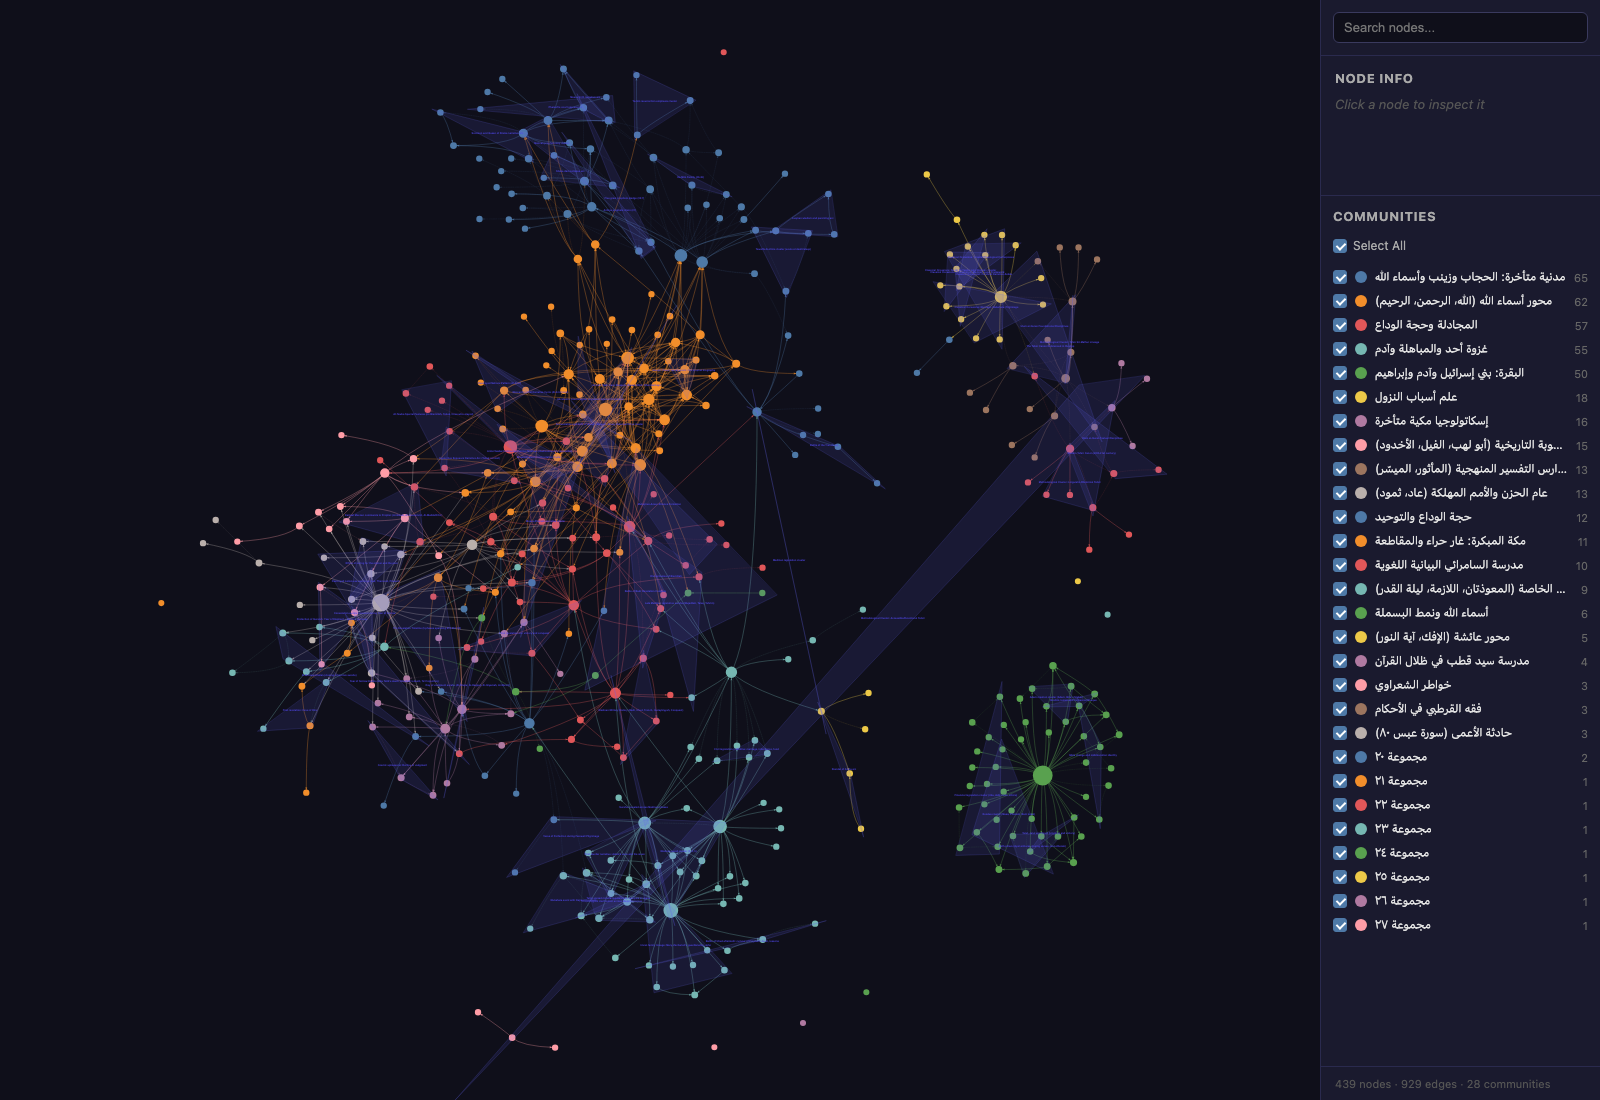
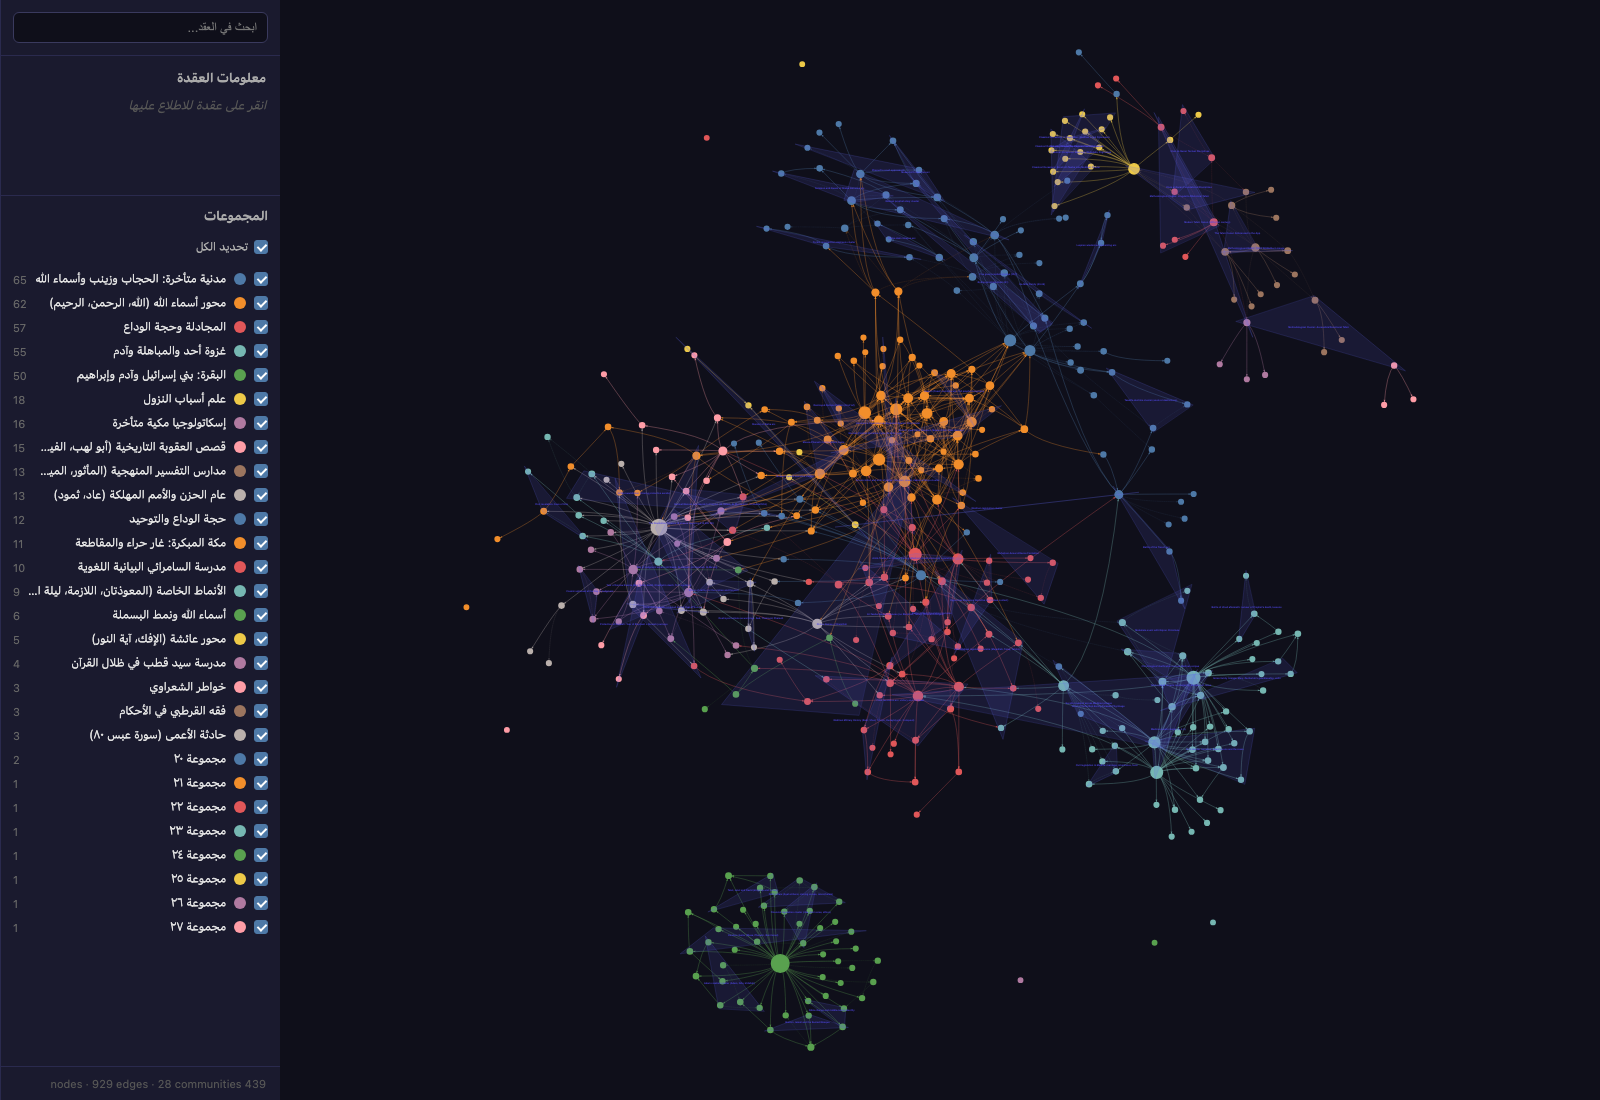
Complete Arabic localization of the Knowledge Graph
Two problems fixed:

1. Node labels: was 264 of 439 (60%), now 439 of 439 (100%) translated.
   Added ~175 new entries to the EXPLICIT translation map covering all
   the agent-generated concept nodes - narratives (Adam-Iblis fall,
   Moses-Pharaoh extended, Solomon and Bilqis, etc.), characters
   (Bilqis, Talut, Jalut, Nimrod, Aad, Thamud, etc.), every variant of
   Asbab labels, tafsir works (Tafsir al-Quran al-Azim,
   Jami al-Bayan an Ta'wil ay al-Quran, In the Shade of the Quran,
   Khawatir al-Sha'rawi, Lamasat Bayania, etc.), tafsir approaches
   (bil-Mathur, Bayani, Fiqhi, Khawatiri, Adabi-Haraki), all 6 sciences,
   all phase variants, all event variants.

2. Graphify HTML viewer chrome (the right panel UI): was English.
   Added a new localize_html_ui() post-processing step in
   scripts/build_arabic_graph.py that does string replacement on the
   generated HTML:
   - "Node Info" -> "معلومات العقدة"
   - "Click a node to inspect it" -> "انقر على عقدة للاطلاع عليها"
   - "Communities" -> "المجموعات"
   - "Select All" -> "تحديد الكل"
   - "Community: ..." -> "المجموعة: ..."
   - "Source: ..." -> "المصدر: ..."
   - "Degree: ..." -> "الدرجة: ..."
   - "Neighbors (N)" -> "الجوار (N)"
   - "EXTRACTED" -> "صريح", "INFERRED" -> "مستنبط", "AMBIGUOUS" -> "مبهم"
   - Search box "Search nodes..." -> "ابحث في العقد..." + dir="rtl"
   - <html> tag -> <html lang="ar" dir="rtl"> for full RTL layout

Asar re-patched with the updated Arabic graph (3.8 MB total).

diff --git a/scripts/build_arabic_graph.py b/scripts/build_arabic_graph.py
@@ -193,6 +193,194 @@ EXPLICIT = {
     "Theme: Community and Society": "المجتمع",
     "Theme: Community and Defence": "المجتمع والدفاع",
     "Theme: Patience and Endurance": "الصبر",
+    # Bare theme names (without "Theme:" prefix)
+    "Faith and Monotheism": "العقيدة والتوحيد",
+    "Legislation": "التشريع",
+    "Stories of the Prophets": "قصص الأنبياء",
+    "Day of Judgment": "يوم القيامة",
+    "Warning": "التحذير",
+    "Ethics and Character": "الأخلاق",
+    "Worship and Devotion": "العبادة",
+    "Nature and Signs": "الطبيعة والآيات",
+    "Community and Society": "المجتمع",
+    "Community and Defence": "المجتمع والدفاع",
+    "Patience and Endurance": "الصبر",
+    "Tawhid (Monotheism)": "التوحيد",
+    "Tawhid (oneness of God)": "التوحيد",
+    "Hypocrisy (Nifaq)": "النفاق",
+    "Repentance (Tawba)": "التوبة",
+    "Jihad / Warfare Ethics": "أخلاق الجهاد والقتال",
+    # Variant entity labels
+    "Allah (God)": "الله",
+    "Muhammad (the Prophet)": "محمد ﷺ",
+    "Aisha (wife of Prophet)": "عائشة (زوج النبي)",
+    "Hamaan (Pharaoh's minister)": "هامان (وزير فرعون)",
+    "Abu Lahab (uncle of the Prophet)": "أبو لهب (عم النبي)",
+    "Bilqis (Queen of Sheba)": "بلقيس (ملكة سبأ)",
+    "Bani Israel (Children of Israel)": "بنو إسرائيل",
+    "Jalut (Goliath)": "جالوت",
+    "Talut (Saul)": "طالوت",
+    "Nimrod (king who disputed with Ibrahim)": "النمرود",
+    "Elias (Ilyas)": "إلياس",
+    "Shuaib": "شعيب",
+    "Shu'ayb": "شعيب",
+    "Luqman the Wise": "لقمان الحكيم",
+    "Zaynab bint Jahsh": "زينب بنت جحش",
+    "Quraish tribe": "قبيلة قريش",
+    "Blind Man incident (Abdullah ibn Umm Maktum)": "حادثة الأعمى (عبد الله بن أم مكتوم)",
+    "Aad of Iram (the pillared)": "عاد إرم ذات العماد",
+    "People of Thamood": "ثمود",
+    "People of the Elephant (Year of the Elephant)": "أصحاب الفيل",
+    "People of the Trench (Ashab al-Ukhdud)": "أصحاب الأخدود",
+    "The People of the Heights (Al-A'raf)": "أصحاب الأعراف",
+    "The Hypocrites (Munafiqun)": "المنافقون",
+    "Saba (Sheba)": "سبأ",
+    "Sacred Valley of Tuwa": "وادي طوى المقدس",
+    # Phases (variants)
+    "Late Meccan phase (619-622 CE)": "المرحلة المكية المتأخرة (619-622م)",
+    "Late Medinan Phase (628-632 CE, Year 6-10 AH)": "المرحلة المدنية المتأخرة (628-632م، 6-10هـ)",
+    "Late Medinan phase (628-632 CE)": "المرحلة المدنية المتأخرة (628-632م)",
+    "Early Medinan Phase (622-628 CE, Year 1-6 AH)": "المرحلة المدنية المبكرة (622-628م، 1-6هـ)",
+    "Phase: Late Meccan": "المرحلة المكية المتأخرة",
+    # Events (variants)
+    "Cave of Hira (absolute temporal origin of the Quran)": "غار حراء (الأصل الزماني للقرآن)",
+    "First revelation: Cave of Hira": "الوحي الأول: غار حراء",
+    "Public Preaching Begins (613 CE)": "بداية الدعوة الجهرية (613م)",
+    "Migration to Abyssinia (615 CE)": "الهجرة إلى الحبشة (615م)",
+    "First Migration to Abyssinia (615 CE)": "الهجرة الأولى إلى الحبشة (615م)",
+    "Boycott of Banu Hashim (616-619 CE)": "مقاطعة بني هاشم (616-619م)",
+    "Isra and Mi'raj (Night Journey)": "الإسراء والمعراج",
+    "Isra and Mi'raj: Night Journey and Ascension (621 CE)": "الإسراء والمعراج (621م)",
+    "Hijra (Emigration to Medina, 622 CE)": "الهجرة إلى المدينة (622م)",
+    "Hijra: Migration to Medina (622 CE / Year 1 AH)": "الهجرة إلى المدينة (622م / 1هـ)",
+    "Hijra and the Muhajirun/Ansar Alliance": "الهجرة وعهد المهاجرين والأنصار",
+    "Tabuk Expedition (Rajab 9 AH / October 630 CE)": "غزوة تبوك (رجب 9هـ / أكتوبر 630م)",
+    "The Tabuk Expedition Narrative (Year 9 AH)": "سيرة غزوة تبوك (9هـ)",
+    "Farewell Pilgrimage (closing event of prophetic mission)": "حجة الوداع (ختام البعثة النبوية)",
+    "Farewell Pilgrimage / Hajjat al-Wada (632 CE / 10 AH)": "حجة الوداع (632م / 10هـ)",
+    "Event: Cave of Hira First Revelation": "حدث: غار حراء والوحي الأول",
+    "Event: Conquest of Mecca": "حدث: فتح مكة",
+    "Event: Year of Sorrow": "حدث: عام الحزن",
+    "Year 1 of the Hijri Calendar (temporal pivot)": "السنة الأولى الهجرية (نقطة تحوّل زمنية)",
+    # Asbab variants
+    "Asbab al-Nuzul (Al-Wahidi)": "أسباب النزول (الواحدي)",
+    "Asbab al-Nuzul (methodology)": "علم أسباب النزول (المنهج)",
+    "Asbab: Abraham's Call to Pilgrimage (22:27)": "أسباب: دعوة إبراهيم للحج (22:27)",
+    "Asbab: Ayat al-Kursi (2:255)": "أسباب: آية الكرسي (2:255)",
+    "Asbab: Ayat an-Nur (24:35)": "أسباب: آية النور (24:35)",
+    "Asbab: Change of Qibla (2:142-150)": "أسباب: تحويل القبلة (2:142-150)",
+    "Asbab: Declaration of Immunity (9:1-29)": "أسباب: البراءة (9:1-29)",
+    "Asbab: First Three Converts (9:100,117)": "أسباب: السابقون الأولون (9:100, 117)",
+    "Asbab: Hijab Verses (33:53, 33:59, 24:31)": "أسباب: آيات الحجاب (33:53، 33:59، 24:31)",
+    "Asbab: Inheritance Verses (4:11, 4:12, 4:176)": "أسباب: آيات المواريث (4:11، 4:12، 4:176)",
+    "Asbab: Marriage to Zaynab": "أسباب: زواج زينب",
+    "Asbab: Marriage to Zaynab bint Jahsh (33:37-40)": "أسباب: زواج زينب بنت جحش (33:37-40)",
+    "Asbab: Orphans and Widows after Uhud (4:1-3, 4:127)": "أسباب: اليتامى والأرامل بعد أحد (4:1-3، 4:127)",
+    "Asbab: Slander of Aisha (24:11-20)": "أسباب: حادثة الإفك (24:11-20)",
+    "Asbab: The Pleading Woman": "أسباب: المجادِلة",
+    "Asbab: The Pleading Woman (58:1-4)": "أسباب: المجادِلة (58:1-4)",
+    "Asbab: The Slander of Aisha (Ifk)": "أسباب: حادثة الإفك",
+    "Asbab: Three Who Stayed Behind from Tabuk (9:117-118)": "أسباب: الثلاثة المخلَّفون عن تبوك (9:117-118)",
+    "Asbab: Verse of Light": "أسباب: آية النور",
+    "Asbab: Verse of Mubahala (3:61)": "أسباب: آية المباهلة (3:61)",
+    "Asbab: Verse of Perfection of Religion (5:3)": "أسباب: آية إكمال الدين (5:3)",
+    "Asbab: Verses of Hijab": "أسباب: آيات الحجاب",
+    "Asbab: Verses on marriage to Zaynab": "أسباب: زواج زينب",
+    # Sciences variants
+    "Asbab al-Nuzul: Occasions of Revelation": "علم أسباب النزول",
+    "Nasikh wal-Mansukh": "الناسخ والمنسوخ",
+    "Muhkam and Mutashabih": "المحكم والمتشابه",
+    "Makki and Madani Classification": "المكي والمدني",
+    "The Ten Qira'at (Canonical Readings)": "القراءات العشر",
+    "I'jaz al-Quran (Inimitability)": "إعجاز القرآن",
+    "Israiliyyat (Jewish/Christian narratives in tafsir)": "الإسرائيليات",
+    # Tafsir approaches and works
+    "Tafsir Adabi-Haraki (literary-activist)": "التفسير الأدبي الحركي",
+    "Tafsir Bayani (rhetorical and linguistic precision)": "التفسير البياني",
+    "Tafsir Fiqhi (jurisprudential tafsir)": "التفسير الفقهي",
+    "Tafsir Khawatiri (devotional reflections)": "تفسير الخواطر",
+    "Tafsir Lughawi-Balaghi (linguistic-rhetorical analysis)": "التفسير اللغوي البلاغي",
+    "Tafsir Muyassar (accessible tafsir)": "التفسير الميسّر",
+    "Tafsir bil-Mathur (interpretation through transmitted narration)": "التفسير بالمأثور",
+    "Tafsir al-Quran al-Azim": "تفسير القرآن العظيم (ابن كثير)",
+    "Al-Jami li-Ahkam al-Quran": "الجامع لأحكام القرآن (القرطبي)",
+    "Al-Tahrir wa al-Tanwir": "التحرير والتنوير (ابن عاشور)",
+    "Fi Zilal al-Quran (In the Shade of the Quran)": "في ظلال القرآن (سيد قطب)",
+    "Khawatir al-Sha'rawi hawl al-Quran al-Karim": "خواطر الشعراوي حول القرآن الكريم",
+    "Jami al-Bayan an Ta'wil ay al-Quran": "جامع البيان عن تأويل آي القرآن (الطبري)",
+    "Lamasat Bayania (Linguistic Touches)": "لمسات بيانية (السامرائي)",
+    "Taysir al-Karim al-Rahman": "تيسير الكريم الرحمن (السعدي)",
+    "Maqasid al-Shari'ah": "مقاصد الشريعة",
+    "Milestones (Ma'alim fi al-Tariq)": "معالم في الطريق (سيد قطب)",
+    "Tarikh al-Rusul wal-Muluk": "تاريخ الرسل والملوك (الطبري)",
+    "Lubab al-Nuqul fi Asbab al-Nuzul": "لباب النقول في أسباب النزول (السيوطي)",
+    "Imam Suyuti": "الإمام السيوطي",
+    # Special patterns variants
+    "Special Feature: Absence of Bismillah in Surah 9 (At-Tawba)": "خاصية: غياب البسملة في سورة التوبة (9)",
+    "Special: Ar-Rahman 31x refrain": "خاصية: لازمة الرحمن (31 مرة)",
+    "Special: Iron Miracle (Al-Hadid)": "خاصية: معجزة الحديد (سورة 57)",
+    "The People of the Cave: 309 Lunar = 300 Solar Years": "أصحاب الكهف: 309 سنوات قمرية = 300 شمسية",
+    "Al-Mu'awwidhatan (the two protective surahs)": "المعوذتان",
+    "Night of Decree (Laylat al-Qadr)": "ليلة القدر",
+    "Divine Names of Bismillah": "أسماء الله في البسملة",
+    "Quran's Length Arrangement: Longest to Shortest": "ترتيب القرآن: من الأطول إلى الأقصر",
+    # Narratives and concepts
+    "Abraham's Debate with the Idolaters (Stars, Moon, Sun)": "محاجة إبراهيم لقومه (النجم والقمر والشمس)",
+    "Adam, Iblis and the Fall": "آدم وإبليس والهبوط",
+    "Annunciation and Birth of Jesus (Isa) to Mary": "بشارة وميلاد عيسى لمريم",
+    "Annunciation and Birth of John (Yahya) to Zechariah": "بشارة وميلاد يحيى لزكريا",
+    "Ayat al-Kursi 2:255 (the Throne verse)": "آية الكرسي (2:255)",
+    "Birth of Moses and Pharaoh's Persecution": "ولادة موسى واضطهاد فرعون",
+    "Byzantine-Persian Prophecy": "نبوءة الروم وفارس",
+    "Chain of prophets revelation (Noah to Muhammad)": "سلسلة الأنبياء (من نوح إلى محمد ﷺ)",
+    "Change of qibla verses 2:142-150": "آيات تحويل القبلة (2:142-150)",
+    "Children of Israel refuse to enter Holy Land; 40-year wandering": "رفض بني إسرائيل دخول الأرض المقدسة (التيه)",
+    "Clarification of Jesus' nature (not God, not crucified)": "بيان طبيعة عيسى (ليس إلهاً ولم يُصلب)",
+    "Closing verses 2:285-286 (the two final verses)": "خواتيم البقرة (2:285-286)",
+    "Declaration of Immunity / Bara'a (9:1-29)": "البراءة (9:1-29)",
+    "Dietary / food laws (lawful and prohibited)": "أحكام الأطعمة (الحلال والحرام)",
+    "Disciples (Hawariyun) of Jesus declare allegiance": "الحواريون أنصار عيسى",
+    "Election of the Family of Imran": "اصطفاء آل عمران",
+    "Exposure of the Hypocrites (Tawba)": "فضح المنافقين (سورة التوبة)",
+    "Hud and the People of 'Ad": "هود وقومه عاد",
+    "Hudud punishments (theft and corruption on earth)": "الحدود (السرقة والفساد في الأرض)",
+    "Ibrahim covenant verse 2:124 (Imam for mankind)": "آية عهد إبراهيم (2:124): إمام للناس",
+    "Inheritance laws (fixed shares)": "أحكام المواريث (الفرائض)",
+    "Jesus questioned on Day of Judgement about deification": "سؤال عيسى يوم القيامة عن ادعاء الألوهية",
+    "Khilafah verse 2:30 (succession on earth)": "آية الخلافة (2:30)",
+    "Longest verse 2:282 (debt and contract verse)": "أطول آية: آية الدَّين (2:282)",
+    "Lot and the People of Sodom": "لوط وقومه",
+    "Luqman's Counsel to His Son": "وصية لقمان لابنه",
+    "Marriage and prohibited unions laws": "أحكام النكاح والمحرَّمات",
+    "Middle nation verse 2:143": "آية الأمة الوسط (2:143)",
+    "Moses-Pharaoh Extended Narrative (signs, plagues, exodus)": "قصة موسى وفرعون (الآيات والعذاب والخروج)",
+    "Muhammad as messenger; mortality after Uhud rumour": "محمد رسول بعد إشاعة موته يوم أحد (3:144)",
+    "Noah and the Flood": "نوح والطوفان",
+    "Orphan rights and trustee duties": "حقوق اليتامى وواجبات الأوصياء",
+    "Ramadan verse 2:185 (revelation of the Quran)": "آية رمضان (2:185)",
+    "Rights and protections of women": "حقوق المرأة وحمايتها",
+    "Ritual ablution (wudu) and tayammum prescription": "أحكام الوضوء والتيمم",
+    "Scriptures of Abraham and Moses": "صحف إبراهيم وموسى",
+    "Sheba's Dam Collapse Punishment": "انهيار سد مأرب (عذاب سبأ)",
+    "Shu'ayb and the People of Madyan": "شعيب وأهل مدين",
+    "Solomon and the Queen of Sheba": "سليمان وملكة سبأ",
+    "Sons of Adam (Cain and Abel) story; first murder; raven": "ابنا آدم (قابيل وهابيل): أول قتل والغراب",
+    "Table spread miracle (Ma'ida) requested by disciples of Jesus": "معجزة المائدة (طلب الحواريين)",
+    "Tawaffa: Souls Taken at Death": "التوفّي: قبض الأرواح",
+    "The Three Who Stayed Behind (9:117-118)": "الثلاثة الذين خُلِّفوا (9:117-118)",
+    "The Three Who Stayed Behind (Ka'b ibn Malik et al.)": "الثلاثة الذين خُلِّفوا (كعب بن مالك وصاحباه)",
+    "Verse of Mubahala (mutual cursing) with Christians of Najran": "آية المباهلة مع نصارى نجران",
+    "Verse of Perfection of Religion (Farewell Pilgrimage)": "آية إكمال الدين (حجة الوداع)",
+    "Ya-Sin Resurrection Emphasis": "تركيز سورة يس على البعث",
+    "Narrative arc: Adam's creation and the angels' prostration": "قوس سردي: خلق آدم وسجود الملائكة",
+    "Narrative arc: Bani Israel (covenant, exodus, golden calf, repentance)": "قوس سردي: بنو إسرائيل (الميثاق، الخروج، العجل، التوبة)",
+    "Narrative arc: Ibrahim disputing with Nimrod over the Lord": "قوس سردي: محاجة إبراهيم النمرود",
+    "Narrative arc: Ibrahim, Ismail and the building of the Kaaba": "قوس سردي: إبراهيم وإسماعيل وبناء الكعبة",
+    "Narrative arc: Prohibition of riba (usury)": "قوس سردي: تحريم الربا",
+    "Narrative arc: Talut and Jalut (Saul, David and Goliath)": "قوس سردي: طالوت وجالوت وداود",
+    "Narrative arc: The Cow (sacrifice commanded to Bani Israel)": "قوس سردي: ذبح البقرة (الأمر لبني إسرائيل)",
+    "Narrative arc: The Debt verse (longest verse, lending and witnesses)": "قوس سردي: آية الدَّين (أطول آية)",
+    "Narrative arc: The traveller by the ruined town (death and resurrection)": "قوس سردي: المار على القرية الخاوية (الموت والبعث)",
 }
 
 # ──────────────────────────────────────────────────────────
@@ -318,7 +506,60 @@ def main():
     output_path = str(GRAPH_DIR / "quran_graph_ar.html")
     to_html(G, communities, output_path, community_labels=community_labels)
     print(f"Wrote Arabic graph: {output_path}")
+
+    # Post-process: localize the graphify viewer UI chrome to Arabic
+    localize_html_ui(output_path)
+    print(f"Localized UI chrome to Arabic")
     print(f"File size: {Path(output_path).stat().st_size:,} bytes")
+
+
+def localize_html_ui(html_path):
+    """Replace English UI strings in the generated graphify HTML with Arabic.
+
+    Targets the viewer chrome (search box, node info panel, communities header)
+    that graphify hard-codes in English. Pure string replacement, no DOM parsing.
+    """
+    p = Path(html_path)
+    text = p.read_text(encoding="utf-8")
+
+    # UI string replacements
+    replacements = [
+        # Search box
+        ('placeholder="Search nodes..."', 'placeholder="ابحث في العقد..." dir="rtl"'),
+        # Node Info panel
+        ('>Node Info<', '>معلومات العقدة<'),
+        ('NODE INFO', 'معلومات العقدة'),
+        ("<span class=\"empty\">Click a node to inspect it</span>",
+         "<span class=\"empty\">انقر على عقدة للاطلاع عليها</span>"),
+        # Communities panel
+        ('>Communities<', '>المجموعات<'),
+        ('COMMUNITIES', 'المجموعات'),
+        ('>Select All<', '>تحديد الكل<'),
+        # Per-node info template fields (template literals, replaced inline)
+        ('Community: ${esc(n._community_name)}',
+         'المجموعة: ${esc(n._community_name)}'),
+        ('Source: ${esc(n._source_file || \'-\')}',
+         'المصدر: ${esc(n._source_file || \'-\')}'),
+        ('Degree: ${n._degree}', 'الدرجة: ${n._degree}'),
+        ('Neighbors (${neighborIds.length})',
+         'الجوار (${neighborIds.length})'),
+        # Edge labels
+        ('>EXTRACTED<', '>صريح<'),
+        ('>INFERRED<', '>مستنبط<'),
+        ('>AMBIGUOUS<', '>مبهم<'),
+        # Direction (most important for an RTL Arabic experience)
+        ('<html lang="en">', '<html lang="ar" dir="rtl">'),
+        ('<html>', '<html lang="ar" dir="rtl">'),
+    ]
+
+    replaced_count = 0
+    for old, new in replacements:
+        if old in text:
+            text = text.replace(old, new)
+            replaced_count += 1
+
+    p.write_text(text, encoding="utf-8")
+    print(f"  Replaced {replaced_count}/{len(replacements)} UI strings")
 
 
 if __name__ == "__main__":